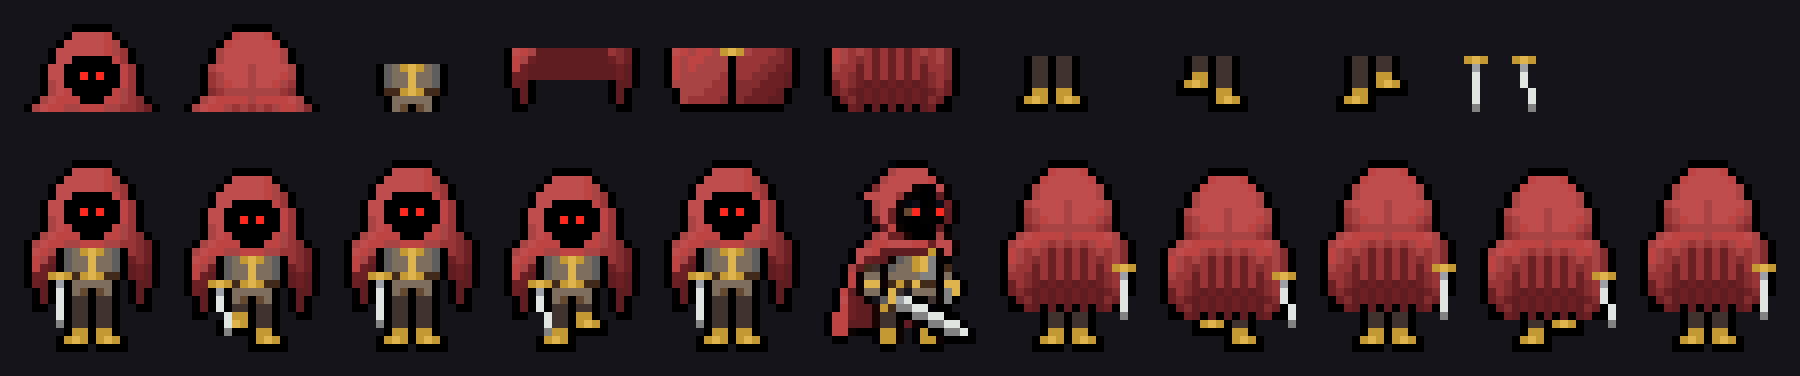
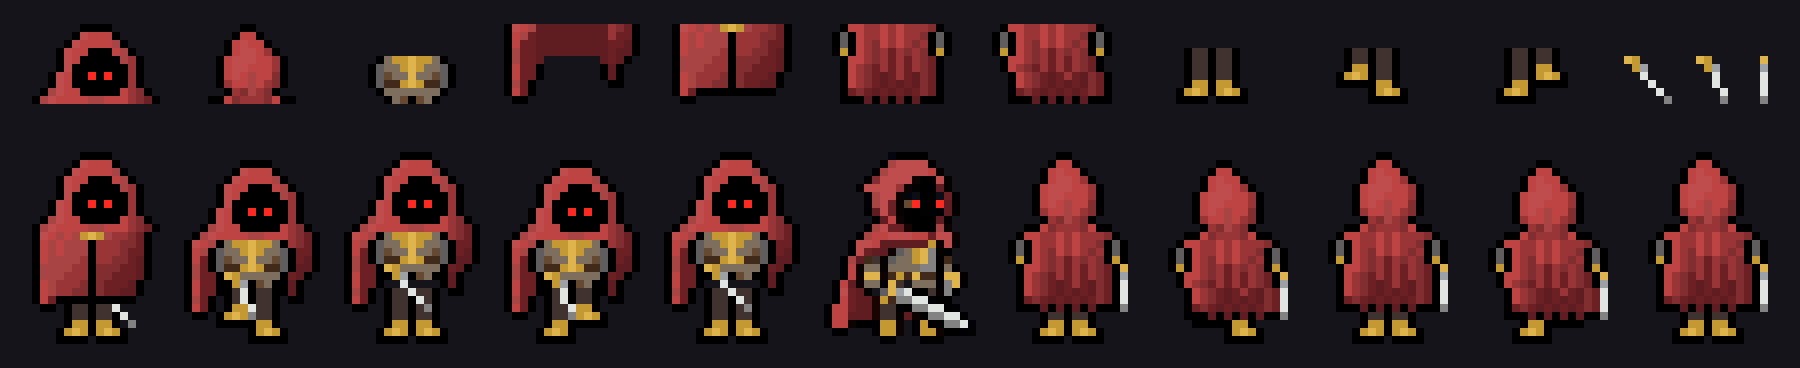
Héroe de frente y de espaldas calcado de la hoja del usuario
Las piezas salen de las figuras S y N de la hoja de 8 direcciones
(hoja-8-direcciones.py las lleva a 24 filas con la paleta) y se limpiaron
a mano: capucha en punta, armadura dorada, capa que cae de un lado y la
espada cruzada; de espaldas, cuello, brazos y el ruedo que se mueve al
caminar. Quieto de frente la capa se cierra.

diff --git a/js/towerHeroArt.js b/js/towerHeroArt.js
@@ -304,76 +304,93 @@ const HERO_ART = {
 };
 
 // --- DE FRENTE Y DE ESPALDAS, POR PIEZAS (2026-10-17, pedido: "diseñar cada cosa por separado y después unirlas") ---
-// Copian los rasgos del de costado (idle): 24 filas de alto, capucha redonda con los dos ojos juntos, esclavina, broche
-// y cinturón dorados, capa hasta la rodilla y botas doradas; luz desde la izquierda. Cada pieza ocupa el ancho del
-// cuadro (17) y empieza en su fila y; las armas van aparte con su punto de agarre (gx, gy), así un arma nueva se
-// dibuja una vez y usa todas las poses. Cada cuadro es una lista de capas, de atrás para adelante:
+// Calcadas de la hoja que pasó el usuario (docs/arte/heroe-hoja-8-direcciones.png, figuras S y N), llevadas a 24 filas
+// como el de costado con docs/arte/hoja-8-direcciones.py y limpiadas a mano: capucha en punta, armadura dorada de
+// frente, la capa que cae más de un lado y abre en campana de espaldas, la espada cruzada adelante. Cada pieza ocupa el
+// ancho del cuadro (17) y empieza en su fila y; las armas van aparte con su punto de agarre (gx, gy), así un arma
+// nueva se dibuja una vez y usa todas las poses. Cada cuadro es una lista de capas, de atrás para adelante:
 // [pieza, dx, dy] (el cuerpo) o [arma, x, y] (dónde está la mano).
 const HERO_PARTS = {
     body: {
         cabezaFrente: { y: 0, rows: [
-            '......AAAAA......',
-            '.....AZZZZXA.....',
-            '....AZZZZZXWA....',
-            '...AZZZZZZXWUA...',
-            '...AZZAAAAAXUA...',
-            '..AZZAAAAAAAXUA..',
-            '..AZZAA!A!AAXUA..',
-            '..AWZAAAAAAAXUA..',
-            '..AWZXAAAAAXWUA..',
-            '.AWZXXXAAAXXWUSA.',  // la esclavina sobre los hombros
-            'AWZXXWWXXXWWUUSRA',
+            '.......AAAA......',  // la punta de la capucha
+            '......AZXXXA.....',
+            '.....AZXXXXWA....',
+            '....AZXXAAAXWA...',
+            '....AZXAAAAAWUA..',  // la abertura de la cara
+            '....AZAAAAAAAUA..',
+            '...AZXAA!A!AAUA..',  // los ojos
+            '...AZXAAAAAAAUA..',
+            '..AWZXXAAAAAXUSA.',
+            '.AWZXXXXWWXXXUSRA',  // la capa sobre los hombros
         ] },
         cabezaEspalda: { y: 0, rows: [
-            '......AAAAA......',
-            '.....AXZZZXA.....',
-            '....AXZZZZZXA....',
-            '...AWZZZZZZZWA...',
-            '...AWZZZZZZZWA...',
-            '..AWZZZZWZZZZWA..',  // la costura de la capucha
-            '..AUWZZZWZZZXWA..',
-            '..AUWXZZWZZXWUA..',
-            '..ASUWWWWWWWUSA..',
-            '.AWZXXXXWXXXXZWA.',
-            'AWZXXWUWUWUWXXWSA',
+            '.......AA........',
+            '......AXXA.......',
+            '.....AXZXXA......',
+            '.....AXZZXUA.....',
+            '....AXZZZXXUA....',
+            '....AXZZXXXUA....',
+            '....AXZXWXXSA....',
+            '....AUXXWXUSA....',
+            '.....AUSWUSA.....',
+            '...AAXSUUUSXAA...',
         ] },
-        torsoFrente: { y: 11, rows: [  // la túnica gris con el broche y el cinturón
-            '....AVYbcbYVA....',
-            '....AVYYcYYVA....',
-            '....AVYYcYYVA....',
-            '....AOObcbOOA....',
-            '.....AYYYYYA.....',
+        torsoFrente: { y: 10, rows: [  // la armadura dorada sobre la túnica, con el cinturón
+            '....AYbbcbbYA....',
+            '...AVYYbcbYYVA...',
+            '...AVTYYcYYTVA...',
+            '...AVOObcbOOVA...',
+            '....AYYYYYYYA....',
             '.....AYTATYA.....',
         ] },
-        capaAbierta: { y: 11, rows: [  // de frente, por detrás del cuerpo: se ve a los costados
+        capaAbierta: { y: 10, rows: [  // de frente, por detrás del cuerpo: cae más larga del lado izquierdo
             'AZXWPPPPPPPPPUSRA',
-            'AXWRPPPPPPPPPRSRA',
-            'AXRPPPPPPPPPPPRPA',
-            'ARRPPPPPPPPPPPRPA',
-            'ARPA.........APPA',
-            '.APA.........APA.',
-            '.APA.........APA.',
-            '.AA...........AA.',
+            'AXWRPPPPPPPPPURRA',
+            'AXRRPPPPPPPPPRRPA',
+            'AWRRPPPPPPPPPRPPA',
+            'AWRRP.......PRPA.',
+            'AXRRA.......APA..',
+            'AXRRA.......APA..',
+            'AWRA.........AA..',
+            'AXRA.............',
+            '.AA..............',
         ] },
-        capaCerrada: { y: 11, rows: [  // de frente, por delante: tapa la túnica (abrochada arriba)
-            'AZXWXXWbcbWUUUSRA',
-            'AXWXXWWWAUUUUSSRA',
-            'AXWXWWWWAUUUSSRRA',
-            'AXWWWWWUAUUSSRRPA',
-            'AWWWWWUUASSSRRRPA',
+        capaCerrada: { y: 10, rows: [  // de frente, por delante: quieto se cierra (abrochada arriba) y tapa la armadura
+            '.AZXWXWbcbWUUSRA.',
+            '.AXWXWWWAUUUSSRA.',
+            '.AXWXWWWAUUUSRRA.',
+            '.AXWWWWUAUUSSRPA.',
+            '.AWWWWUUASSSRRPA.',
             '.AWWWUUUASSRRRPA.',
-            '.AWUUUUSASRRRPPA.',
-            '..AAAAAAAAAAAAA..',
+            '.AXWUUUSASRRRPA..',
+            '.AXWUUSSASRRPPA..',
+            '.AXRAAAAAAAAAA...',
+            '..AA.............',
         ] },
-        capaEspalda: { y: 11, rows: [  // de espaldas: la capa tapa todo, con sus pliegues
-            'AXWUWURURURUWUWSA',
-            'AXWUSURURURUSUWSA',
-            'AWUURURURURURUUSA',
-            'AUUSRURURURURSUSA',
-            'ARUSRPRPRPRPRSURA',
-            'ARSRPRPRPRPRPRSRA',
-            '.ARSPRPRPRPRPSRA.',
-            '.AARPAPAPAPAPRAA.',
+        capaEspalda: { y: 10, rows: [  // de espaldas: la capa tapa todo y abre en campana
+            '..AXXUUXUXUUUSA..',
+            '.AVAXUUXUXUUSAVA.',
+            '.AVAXUSXUXUSUAVA.',
+            '.AbAXUSURUSUSAbA.',
+            '..AXXUSURURUSRA..',
+            '..AXUSRURURUSRA..',
+            '..AXUSRPRURPSRA..',
+            '..AXUSRPRPRPSRA..',
+            '..ARSRPRPRPRSRA..',
+            '..AAAPAPAPAPAAA..',
+        ] },
+        capaEspaldaVuelo: { y: 10, rows: [  // al caminar el ruedo se va para un costado
+            '..AXXUUXUXUUUSA..',
+            '.AVAXUUXUXUUSAVA.',
+            '.AVAXUSXUXUSUAVA.',
+            '.AbAXUSURUSUSAbA.',
+            '..AXXUSURURUSRA..',
+            '..AXUSRURURUSRA..',
+            '...AXUSRPRURPSRA.',
+            '...AXUSRPRPRPSRA.',
+            '...ARSRPRPRPRSRA.',
+            '...AAAPAPAPAPAAA.',
         ] },
         piernas: { y: 17, rows: [
             '.....AQQAQQA.....',
@@ -404,20 +421,22 @@ const HERO_PARTS = {
         ] },
     },
     weapons: {
-        espada: { gx: 1, gy: 0, rows: ['bcb', '.d.', '.e.', '.e.', '.e.', '.e.', '.a.'] },   // colgando, la punta abajo
-        espadaVaiven: { gx: 1, gy: 0, rows: ['bcb', '.d.', '.e.', '.e.', '..e', '..e', '..a'] } // al caminar se balancea
+        espada: { gx: 0, gy: 0, rows: ['cb....', '.bd...', '..e...', '...e..', '....e.', '.....a'] },  // cruzada adelante, la punta abajo
+        espadaVaiven: { gx: 0, gy: 0, rows: ['cb...', '.bd..', '..e..', '..e..', '...e.', '...a.'] },  // al caminar se balancea
+        espadaEspalda: { gx: 0, gy: 0, rows: ['c', 'd', 'e', 'e', 'e', 'a'] },                         // de espaldas, al costado
     },
-    // Las capas de cada cuadro. Caminar: con el paso abierto el cuerpo baja un píxel y la espada se balancea.
+    // Las capas de cada cuadro. Quieto de frente con la capa cerrada (la espada asoma por abajo). Caminar: con el paso
+    // abierto el cuerpo baja un píxel, la espada se balancea y de espaldas el ruedo de la capa se va para un costado.
     frames: (() => {
-        const front = (legs, dy, sword) => [['capaAbierta', 0, dy], [legs, 0, 0], ['torsoFrente', 0, dy], ['cabezaFrente', 0, dy], [sword, 4, 14 + dy]];
-        const back = (legs, dy, sword) => [[legs, 0, 0], ['cabezaEspalda', 0, dy], ['capaEspalda', 0, dy], [sword, 15, 13 + dy]];
+        const front = (legs, dy, sword) => [['capaAbierta', 0, dy], [legs, 0, 0], ['torsoFrente', 0, dy], ['cabezaFrente', 0, dy], [sword, 5, 14 + dy]];
+        const back = (legs, dy, cape) => [[legs, 0, 0], ['cabezaEspalda', 0, dy], [cape, 0, dy], ['espadaEspalda', 15, 14 + dy]];
         return {
-            frontIdle: front('piernas', 0, 'espada'),
+            frontIdle: [['piernas', 0, 0], ['espada', 8, 16], ['cabezaFrente', 0, 0], ['capaCerrada', 0, 0]],
             frontWalk0: front('pasoIzq', 1, 'espadaVaiven'), frontWalk1: front('piernas', 0, 'espada'),
             frontWalk2: front('pasoDer', 1, 'espadaVaiven'), frontWalk3: front('piernas', 0, 'espada'),
-            backIdle: back('piernas', 0, 'espada'),
-            backWalk0: back('pasoIzq', 1, 'espadaVaiven'), backWalk1: back('piernas', 0, 'espada'),
-            backWalk2: back('pasoDer', 1, 'espadaVaiven'), backWalk3: back('piernas', 0, 'espada'),
+            backIdle: back('piernas', 0, 'capaEspalda'),
+            backWalk0: back('pasoIzq', 1, 'capaEspaldaVuelo'), backWalk1: back('piernas', 0, 'capaEspalda'),
+            backWalk2: back('pasoDer', 1, 'capaEspaldaVuelo'), backWalk3: back('piernas', 0, 'capaEspalda'),
         };
     })()
 };

diff --git a/js/tests.js b/js/tests.js
@@ -1595,12 +1595,14 @@ test('Torre: el héroe en pixel art se anima por poses — cada movimiento elige
     walkNames.forEach(n => { const F = HERO_ART.frames[n], xs = []; F.rows.slice(0, 8).forEach(r => [...r].forEach((c, x) => { if (c !== '.') xs.push(x); }));
         const head = Math.round(HERO_ART_BOX.w / 2 - heroArtAnchor(n)) + xs.reduce((a, b) => a + b, 0) / xs.length;
         check(Math.abs(head - HERO_ART_BOX.w / 2) <= 1, `${n}: la cabeza queda centrada`); });
-    // de frente y de espaldas se arman por piezas: mismo alto que el de costado y la espada en la mano que dice el cuadro
+    // de frente y de espaldas se arman por piezas: mismo alto que el de costado y la espada a la vista
+    // (quieto de frente la capa cerrada tapa la mano: se ve la hoja)
     Object.entries(HERO_PARTS.frames).forEach(([n, layers]) => {
-        const R = HERO_ART.frames[n].rows, [, gx, gy] = layers[layers.length - 1];
+        const R = HERO_ART.frames[n].rows;
         check(R.length === HERO_ART.frames.idle.rows.length && R.every(r => r.length === 17), `${n}: 17 × 24 como el de costado`);
-        checkEq(R[gy][gx], 'c', `${n}: la empuñadura está donde va la mano`);
+        check(layers.some(l => HERO_PARTS.weapons[l[0]]) && R.some(r => r.includes('e')), `${n}: lleva la espada y se ve`);
     });
+    checkEq(HERO_PARTS.frames.frontIdle[HERO_PARTS.frames.frontIdle.length - 1][0], 'capaCerrada', 'quieto de frente: la capa cerrada');
     check(PXG.walkGrace > 0.05, 'llegar a la casilla un instante antes del paso siguiente no pone el cuadro de quieto');
 });
 test('Torre por dentro: el piso 1 es afuera; del 2 en adelante, muro exterior y salones de piedra; cada piso con su lugar y su gente', () => {

diff --git a/js/main.js b/js/main.js
@@ -1,7 +1,7 @@
 // Punto de entrada: conecta los botones y arranca el bucle principal.
 
 // Versión visible en el menú: si no coincide con la última subida, el navegador muestra una copia vieja (Ctrl+F5).
-const GAME_VERSION = '2026-10-17 · Héroe de frente y de espaldas por piezas, con los rasgos del de costado';
+const GAME_VERSION = '2026-10-17 · Héroe de frente y de espaldas calcado de tu hoja; quieto, capa cerrada';
 document.getElementById('game-version').textContent = `Versión ${GAME_VERSION}`;
 
 document.getElementById('start-wave-btn').onclick = () => startWave(); // sin argumentos: si recibe el clic, lo toma como plan de duelo y la oleada no arranca (arreglado 2026-10-13)

diff --git a/docs/arte/hoja-8-direcciones.py b/docs/arte/hoja-8-direcciones.py
@@ -1,0 +1,66 @@
+# Saca de la hoja del usuario (heroe-hoja-8-direcciones.png, 2026-10-17) el quieto de frente (S) y de espaldas (N) y los
+# dos pasos de espaldas, y los lleva al tamaño del héroe del juego (24 filas, como el de costado) con su paleta.
+# La hoja no tiene una grilla de píxeles pareja (el quieto mide ~5 px por píxel y el caminar ~2,7), así que cada figura
+# se recorta por su borde y se parte en 24 filas: cada celda toma el color más repetido de su centro.
+# Uso: python docs/arte/hoja-8-direcciones.py [--ver]  →  imprime las filas (JSON) y con --ver guarda hoja-8-direcciones-recorte.png
+import os, re, sys, json
+import numpy as np
+from PIL import Image
+
+HERE = os.path.dirname(os.path.abspath(__file__))
+im = np.asarray(Image.open(os.path.join(HERE, 'heroe-hoja-8-direcciones.png')).convert('RGB')).astype(int)
+src = open(os.path.join(HERE, '..', '..', 'js', 'towerHeroArt.js'), encoding='utf-8').read()
+PAL = json.loads(re.search(r'pal: (\{.*?\})', src).group(1))
+# los negros casi iguales de la paleta (B…J) son ruido de la hoja vieja: acá el contorno es siempre A
+USE = {k: v for k, v in PAL.items() if k not in 'BCDEFGHIJ'}
+RGB = {k: np.array([int(v[i:i + 2], 16) for i in (1, 3, 5)]) for k, v in USE.items()}
+BG = im[5, 5]
+ROWS = 24
+
+# zonas de la hoja donde está cada figura (x0, y0, x1, y1), medidas a ojo y ajustadas al borde
+ZONAS = {'frente': (15, 45, 165, 245), 'espalda': (640, 45, 785, 245),
+         'espaldaPaso0': (650, 310, 760, 421), 'espaldaPaso1': (650, 421, 760, 532)}
+
+def near(c):
+    return min(RGB, key=lambda k: ((RGB[k] - c) ** 2).sum())
+
+def extraer(x0, y0, x1, y1, ojos=True):
+    reg = im[y0:y1, x0:x1]; m = np.abs(reg - BG).sum(2) > 45
+    ys, xs = np.where(m); reg = reg[ys.min():ys.max() + 1, xs.min():xs.max() + 1]; m = m[ys.min():ys.max() + 1, xs.min():xs.max() + 1]
+    h, w = m.shape; cols = max(1, round(w * ROWS / h))
+    # promedio por celda (solo lo que no es fondo) y cuánto de la celda es figura
+    big = Image.fromarray((reg * m[..., None]).astype(np.uint8)); cov = Image.fromarray((m * 255).astype(np.uint8))
+    avg = np.asarray(big.resize((cols, ROWS), Image.BOX)).astype(float); fr = np.asarray(cov.resize((cols, ROWS), Image.BOX)) / 255
+    # ojos: rojo puro sobre negro (la capa también es roja, pero clara y sin negro alrededor)
+    red = ((reg[..., 0] > 190) & (reg[..., 1] < 70) & (reg[..., 2] < 70)).astype(np.uint8) * 255
+    blk = (reg.sum(2) < 90).astype(np.uint8) * 255
+    redc = np.asarray(Image.fromarray(red).resize((cols, ROWS), Image.BOX)) / 255
+    blkc = np.asarray(Image.fromarray(blk).resize((cols, ROWS), Image.BOX)) / 255
+    out = []
+    for r in range(ROWS):
+        row = ''
+        for c in range(cols):
+            if fr[r, c] < 0.45: row += '.'; continue
+            if redc[r, c] > 0.2 and blkc[r, c] > 0.3 and ojos and 3 <= r <= 8: row += '!'; continue  # la cara va en estas filas
+            if redc[r, c] > 0.2 and blkc[r, c] > 0.3: row += 'A'; continue  # rojo con negro fuera de la cara: es contorno
+            row += near(avg[r, c] / fr[r, c])
+        out.append(row)
+    return out
+
+def centrar(rows, w=17):  # al ancho del cuadro, centrado
+    pad = w - len(rows[0]); l = pad // 2
+    return ['.' * l + r + '.' * (pad - l) for r in rows] if pad >= 0 else [r[-pad // 2:][:w] for r in rows]
+
+res = {k: centrar(extraer(*z, ojos=k == 'frente')) for k, z in ZONAS.items()}  # de espaldas no hay cara
+if '--ver' in sys.argv:
+    S = 8; ims = []
+    for rows in res.values():
+        a = Image.new('RGB', (17 * S, ROWS * S), (21, 20, 26))
+        for y, r in enumerate(rows):
+            for x, ch in enumerate(r):
+                if ch != '.': a.paste(PAL[ch] if ch != '!' else '#ff2a1f', (x * S, y * S, x * S + S, y * S + S))
+        ims.append(a)
+    out = Image.new('RGB', (sum(i.width + 16 for i in ims), ROWS * S), (21, 20, 26)); x = 0
+    for i in ims: out.paste(i, (x, 0)); x += i.width + 16
+    out.save(os.path.join(HERE, 'hoja-8-direcciones-recorte.png'))
+print(json.dumps(res, indent=1))

diff --git a/docs/REWORK.md b/docs/REWORK.md
@@ -1169,6 +1169,14 @@ el mismo paso; lo grande queda acá, ordenado por impacto.
     los ojos juntos, broche y cinturón dorados, capa hasta la rodilla y luz desde la izquierda. Al caminar, con el
     paso abierto el cuerpo baja un píxel y la espada se balancea. Un arma nueva se dibuja una vez con su agarre y
     usa todas las poses. Hoja con las piezas sueltas y los cuadros: `docs/arte/heroe-piezas.py` → `.png`.
+    **Calcado de la hoja del usuario** (2026-10-17, "se ve muy redondo y feo"; pasó una hoja de 8 direcciones,
+    `docs/arte/heroe-hoja-8-direcciones.png`): `docs/arte/hoja-8-direcciones.py` lleva las figuras S y N a 24 filas
+    con la paleta (la hoja no tiene grilla pareja: ~5 px por píxel el quieto, ~2,7 el caminar) y las piezas se
+    limpiaron a mano encima: capucha en punta, armadura dorada de frente, capa que cae más larga de un lado, la
+    espada cruzada adelante; de espaldas la capucha se cierra en el cuello, asoman brazos y guanteletes y al
+    caminar el ruedo se va para un costado. Quieto de frente la capa se cierra (pedido) y asoma la punta de la
+    espada; al caminar se abre. El caminar de frente de la hoja está de tres cuartos: de frente se usa el quieto
+    con las piernas por piezas.
     **Caminar sin parpadeo** (2026-10-14, "parpadea mucho cuando se mueve, como que le faltan cuadros"). Medido cuadro
     por cuadro, eran tres cosas: (1) caminando de seguido llegaba a su casilla un instante antes del paso siguiente y se
     colaba un cuadro de quieto cada 2-3 pasos → ahora sigue "caminando" 0,12 s después de frenar (`PXG.walkGrace`, vale

diff --git a/docs/ROADMAP.md b/docs/ROADMAP.md
@@ -460,6 +460,7 @@ Las clases (diseño del usuario, 2026-10-14; clic izquierdo = básico, clic dere
 
 ## Hecho por el modo automático
 (Fecha · ítem · commit · qué se midió.)
+- 2026-10-17 · Héroe de frente y de espaldas calcado de la hoja del usuario (a pedido, en el chat) · ver git log · figuras S y N de la hoja (184 px de alto) llevadas a 24 filas; 12 piezas + 3 espadas arman 10 cuadros; quieto de frente con la capa cerrada. En el muñeco las cajas de golpe calzan sin cambios. Pruebas 281/281.
 - 2026-10-17 · Héroe por piezas de frente y de espaldas (a pedido, en el chat) · ver git log · 10 cuadros (quieto + 4 de caminar por vista) armados con 11 piezas y 2 espadas; todos 17×24 como el de costado y con la empuñadura en la mano que marca el cuadro. Pruebas 281/281.
 - 2026-10-16 · Muñeco, paso 1c (a pedido, en el chat) · 2bd9076 · Onda de corte 120/50/250 ms a 160 px/s (8 de daño); bola del muñeco cada 1,8 s con aviso de 0,5 s, 85 px/s y 20 de daño; golpe recibido 0/120/140 ms con 9 px de empujón; la parada devuelve la bola ×1,5 de rápido y ×2 de daño; caída 200/500/1400 ms y se levanta con 100. Pruebas 279/279.
 - 2026-10-16 · Muñeco, paso 1b (a pedido, en el chat) · 99672a8 · Tajo 1 70/80/220 ms (10 de daño), revés 60/80/220 (12), remate 160/100/320 (22, congelado 90 ms y sacudón), parada 40/300/180 (5); el combo entero le hace 44 al muñeco y nunca pega en la preparación. Pruebas 278/278.

diff --git a/docs/ESTADO.md b/docs/ESTADO.md
@@ -96,7 +96,8 @@ Documento de traspaso: dónde estamos, qué falta y cómo se trabaja. Las reglas
   piso 1, en el rincón más apartado del bosque); se juntan al
   pisarlas, quedan para siempre y el Cuaderno (N) cuenta la historia de la expedición en orden (REWORK.md §6).
 - **Héroe por piezas (2026-10-17, pedido del usuario):** de frente y de espaldas se arma con piezas (cabeza, torso,
-  capas, piernas y la espada con su agarre; `HERO_PARTS` en js/towerHeroArt.js) con los rasgos del de costado. Faltan
+  capas, piernas y la espada con su agarre; `HERO_PARTS` en js/towerHeroArt.js), calcado de la hoja de 8 direcciones
+  del usuario (`docs/arte/heroe-hoja-8-direcciones.png`); quieto de frente con la capa cerrada. Faltan
   ataques, parada y esquive de frente y de espaldas (ROADMAP 1d) y las otras armas como piezas.
 - **La Torre por dentro (2026-10-14, pedido del usuario):** el piso 1 es afuera (el bosque al pie de la torre); del 2
   en adelante estás adentro: muro exterior, salones con portones y columnas (más enteros arriba). Cada piso tiene su
